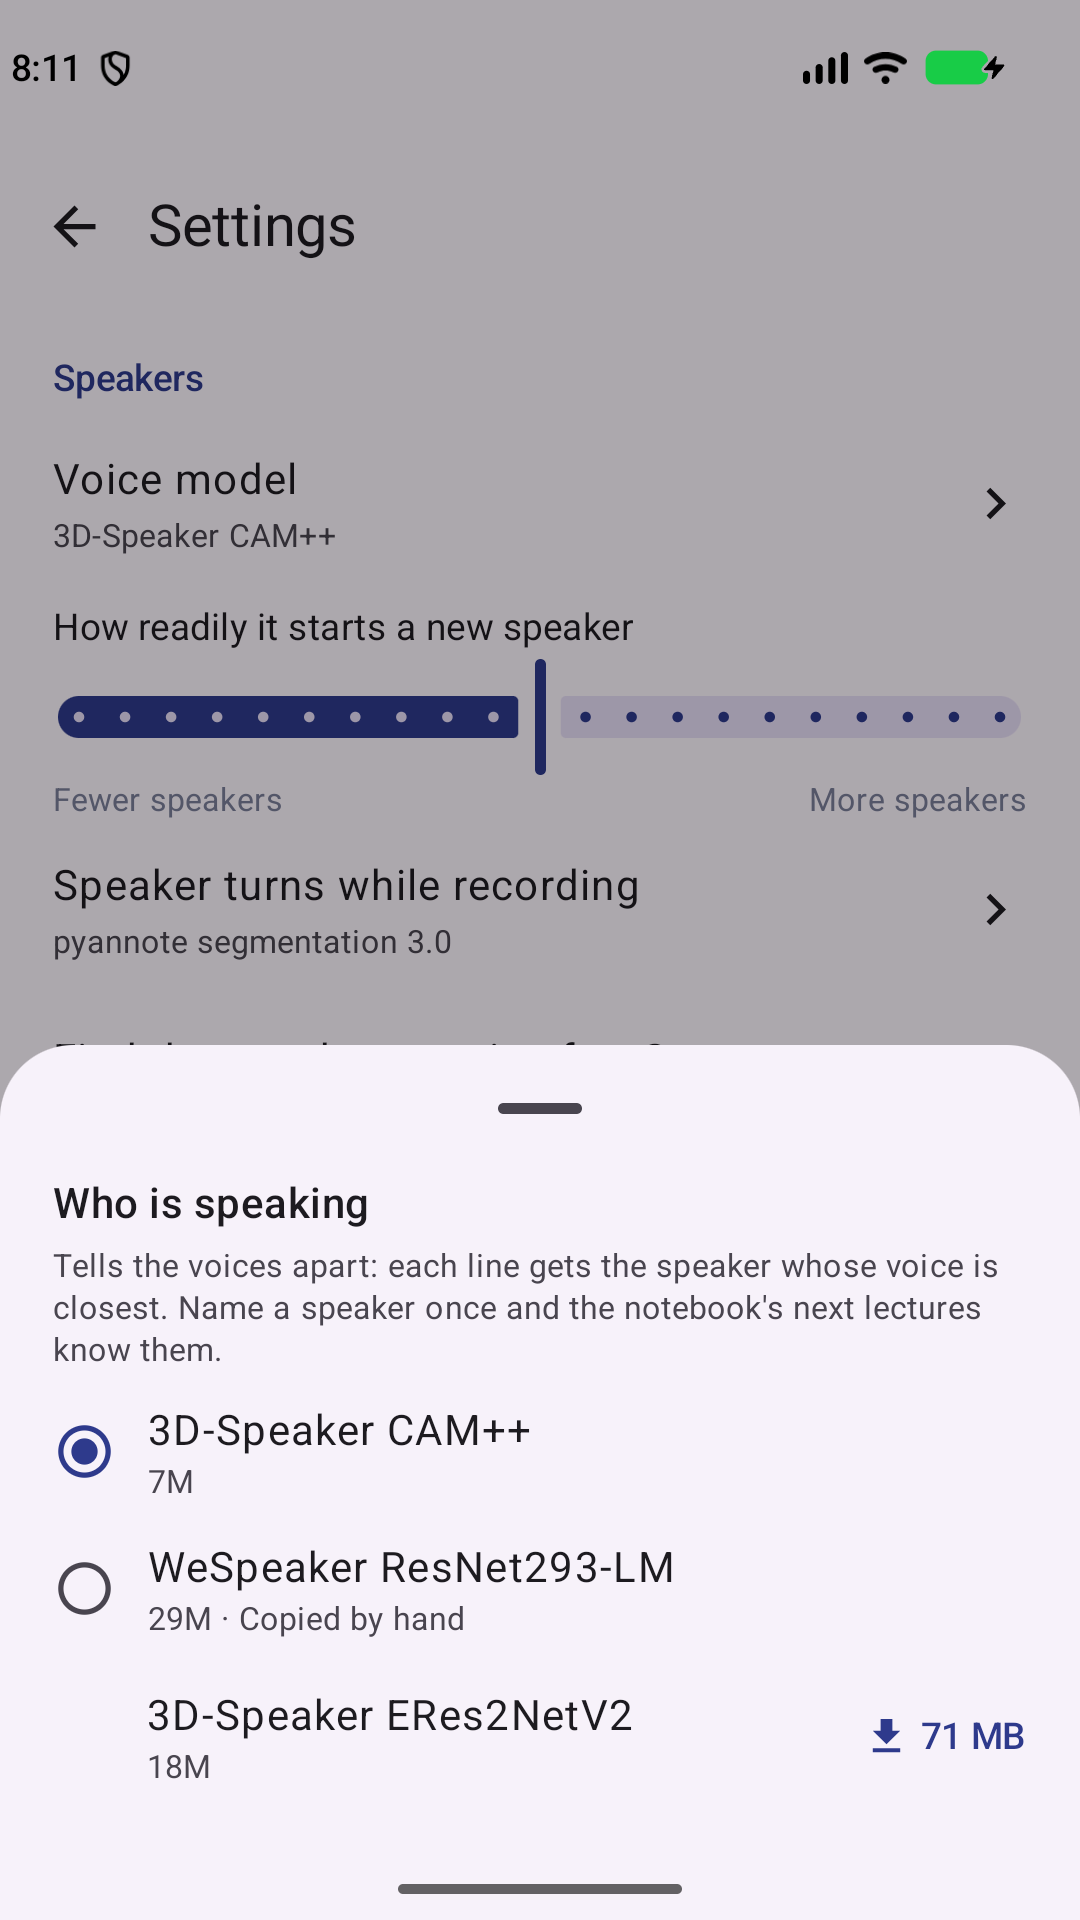
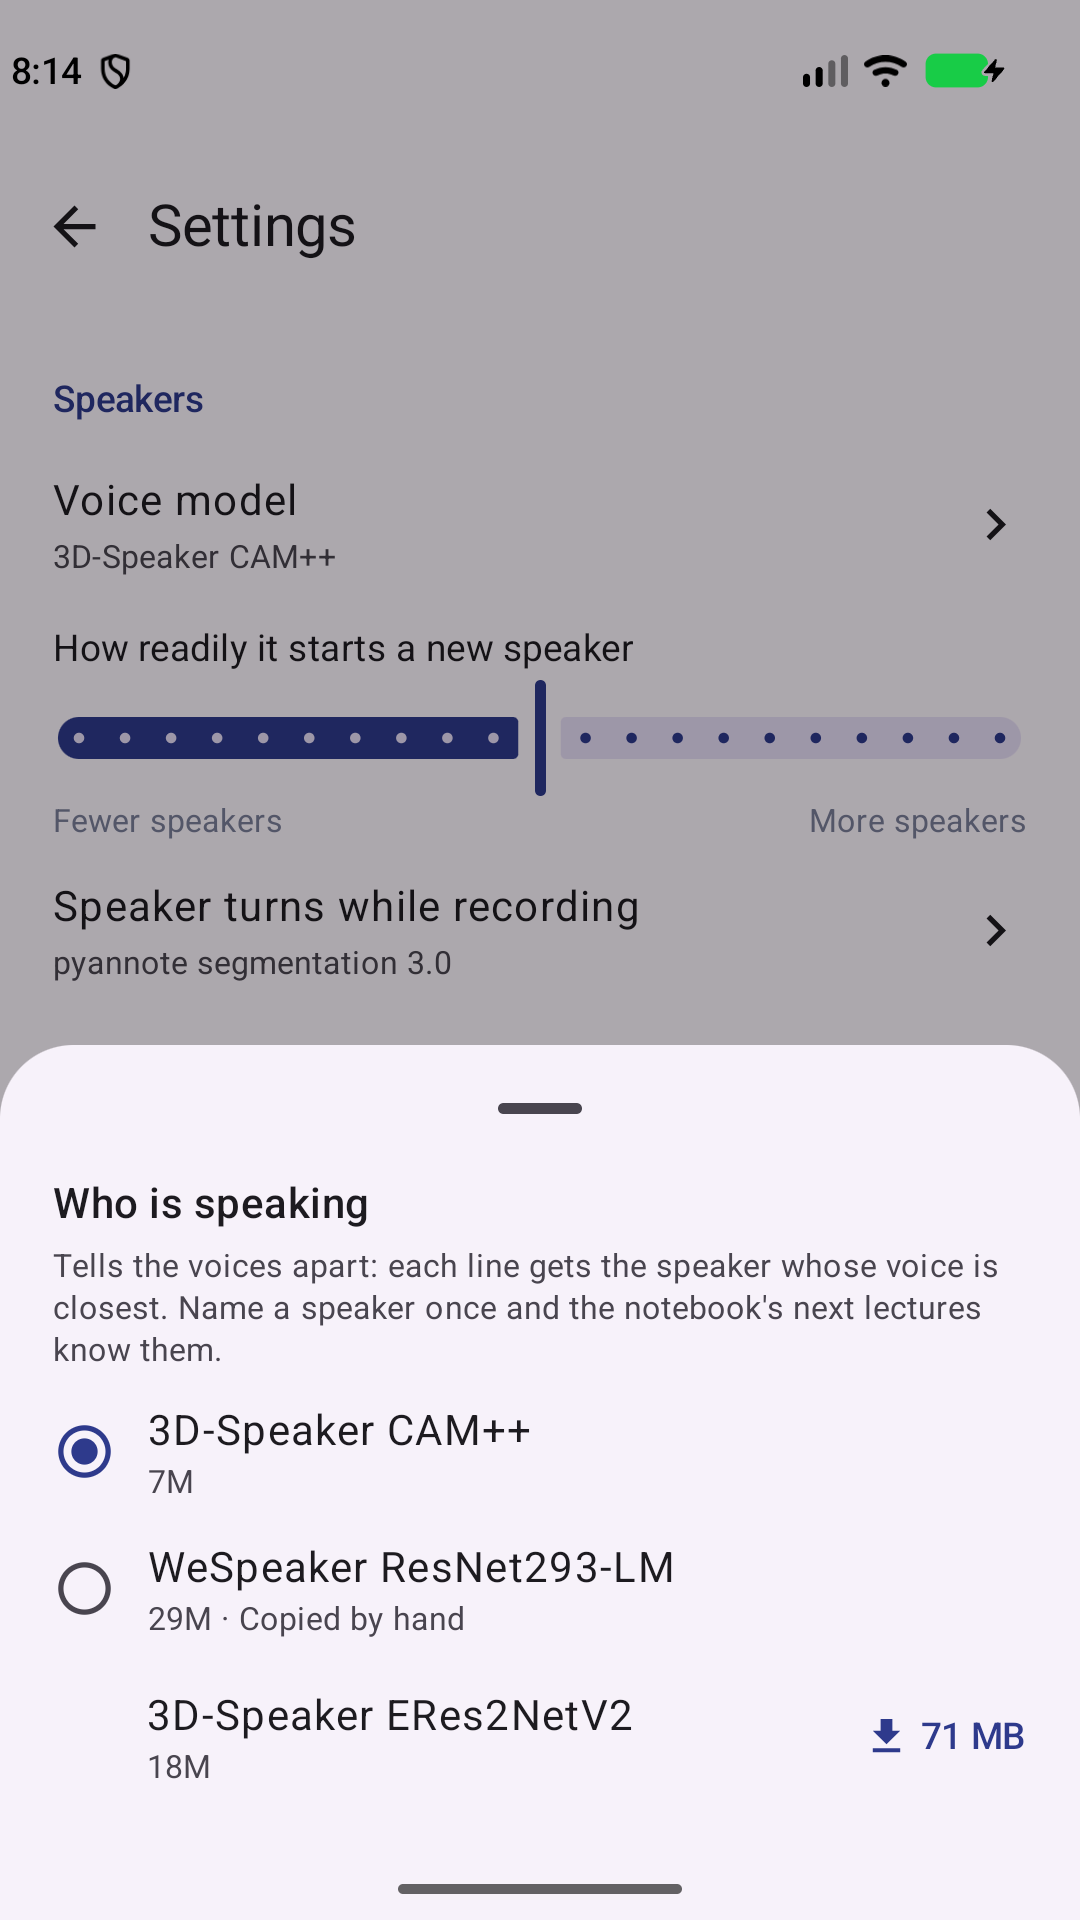
UI lab: models option d2, speaker models on a page of their own with a Hugging Face search; option b's sheet opens full and scrolls
d2: Speaker recognition and Speaker turns each show one row with the chosen model, opening the same page layout
(note, models to pick, Find more on Hugging Face, a faked search). The slider stays on Settings.

Claude-Session: https://claude.ai/code/session_01ErhWDJpSCC6M1cCp9EnAS9

diff --git a/androidApp/src/debug/kotlin/com/chencohensolution/transcriptor/ui/lab/models/d2/ModelsOptionD2.kt b/androidApp/src/debug/kotlin/com/chencohensolution/transcriptor/ui/lab/models/d2/ModelsOptionD2.kt
@@ -1,0 +1,238 @@
+package com.chencohensolution.transcriptor.ui
+
+import androidx.activity.compose.BackHandler
+import androidx.compose.foundation.layout.Column
+import androidx.compose.foundation.layout.Spacer
+import androidx.compose.foundation.layout.fillMaxSize
+import androidx.compose.foundation.layout.height
+import androidx.compose.foundation.layout.padding
+import androidx.compose.foundation.rememberScrollState
+import androidx.compose.foundation.verticalScroll
+import androidx.compose.material.icons.Icons
+import androidx.compose.material.icons.automirrored.filled.ArrowBack
+import androidx.compose.material3.ExperimentalMaterial3Api
+import androidx.compose.material3.HorizontalDivider
+import androidx.compose.material3.Icon
+import androidx.compose.material3.IconButton
+import androidx.compose.material3.Scaffold
+import androidx.compose.material3.Text
+import androidx.compose.material3.TopAppBar
+import androidx.compose.runtime.Composable
+import androidx.compose.runtime.getValue
+import androidx.compose.runtime.mutableStateOf
+import androidx.compose.runtime.saveable.rememberSaveable
+import androidx.compose.runtime.setValue
+import androidx.compose.foundation.layout.Row
+import androidx.compose.foundation.layout.fillMaxWidth
+import androidx.compose.foundation.layout.size
+import androidx.compose.foundation.layout.width
+import androidx.compose.material.icons.filled.Search
+import androidx.compose.material3.LinearProgressIndicator
+import androidx.compose.material3.MaterialTheme
+import androidx.compose.material3.OutlinedTextField
+import androidx.compose.material3.TextButton
+import androidx.compose.runtime.mutableStateListOf
+import androidx.compose.runtime.remember
+import androidx.compose.ui.Alignment
+import androidx.compose.ui.graphics.Color
+import androidx.compose.ui.Modifier
+import androidx.compose.ui.res.stringResource
+import androidx.compose.ui.unit.dp
+import com.chencohensolution.transcriptor.R
+import com.chencohensolution.transcriptor.models.HubSearch
+import com.chencohensolution.transcriptor.models.SpeechModel
+
+/**
+ * Option d2 (the owner's ask: the speaker models on a screen of their own, not a list on Settings): as option d, but
+ * each speaker section has one row with the chosen model (Voice model, Turn model) that opens a page to pick it, like
+ * a language's page. The fewer ↔ more slider stays on Settings, under the Voice model row.
+ */
+@OptIn(ExperimentalMaterial3Api::class)
+@Composable
+fun ModelsScreenD2(state: ModelsState, actions: ModelsActions, @Suppress("UNUSED_PARAMETER") hubSearch: HubSearch) {
+    var language by rememberSaveable { mutableStateOf<String?>(null) }
+    var page by rememberSaveable { mutableStateOf<String?>(null) }
+    var hub by rememberSaveable { mutableStateOf<String?>(null) }
+    val added = remember { mutableStateListOf<D2HubModel>() }
+    if (language != null) {
+        BackHandler { language = null }
+        LabLanguagePage(state, actions, language!!) { language = null }
+        return
+    }
+    val voice = state.labVoiceModel()
+    val turns = state.labTurnModel()
+    if (hub != null) {
+        BackHandler { hub = null }
+        D2HubPage(hub!!, added, onAdd = { added += it }) { hub = null }
+        return
+    }
+    // Speaker recognition and Speaker turns share one page: only their data differs.
+    if (page != null) {
+        BackHandler { page = null }
+        val voices = page == "voices"
+        D2ModelPage(
+            title = stringResource(if (voices) R.string.models_lab_recognition else R.string.models_lab_turns),
+            note = stringResource(if (voices) R.string.models_lab_voices_note else R.string.models_lab_turns_note),
+            state = state, actions = actions,
+            models = if (voices) state.labVoiceModels() else state.labTurnModels(),
+            chosen = if (voices) voice else turns,
+            pick = if (voices) actions.useVoicePrints else actions.useSegmentation,
+            added = added.filter { it.kind == page },
+            onFindMore = { hub = page },
+            onBack = { page = null },
+        )
+        return
+    }
+    Scaffold(
+        topBar = {
+            TopAppBar(
+                navigationIcon = { IconButton(onClick = actions.back) { Icon(Icons.AutoMirrored.Filled.ArrowBack, stringResource(R.string.review_back)) } },
+                title = { Text(stringResource(R.string.notebooks_settings)) },
+            )
+        },
+    ) { padding ->
+        Column(Modifier.fillMaxSize().padding(padding).verticalScroll(rememberScrollState())) {
+            LabLanguages(state, openLanguage = { language = it }, addLanguage = { actions.addLanguage("fr") })
+            HorizontalDivider(Modifier.padding(top = 8.dp))
+            LabSectionTitle(stringResource(R.string.models_lab_recognition))
+            LabPageNote(stringResource(R.string.models_lab_voices_note))
+            LabSummaryRow(stringResource(R.string.models_lab_voice_model), listOf(d2Line(voice, state))) { page = "voices" }
+            if (voice != null) LabSpeakerTuning(state.speakerTuning[voice.id] ?: 0f, Modifier.padding(horizontal = 20.dp)) { actions.setSpeakerTuning(voice, it) }
+            HorizontalDivider(Modifier.padding(top = 8.dp))
+            LabSectionTitle(stringResource(R.string.models_lab_turns))
+            LabPageNote(stringResource(R.string.models_lab_turns_note))
+            LabSummaryRow(stringResource(R.string.models_lab_turn_model), listOf(d2Line(turns, state))) { page = "turns" }
+            HorizontalDivider(Modifier.padding(top = 8.dp))
+            LabSectionTitle(stringResource(R.string.settings_after))
+            LabSwitchRow(stringResource(R.string.models_lab_pass_again), stringResource(R.string.settings_find_speakers_note), state.findSpeakersOnStop, actions.setFindSpeakersOnStop)
+            LabAutoImprove(state, actions)
+            HorizontalDivider(Modifier.padding(top = 8.dp))
+            LabSectionTitle(stringResource(R.string.settings_storage))
+            LabStorage(state, actions, openCatalog = {})
+            Spacer(Modifier.height(16.dp))
+        }
+    }
+}
+
+/** The chosen model's name and facts ("3D-Speaker CAM++ · 7M"), or a red "No model downloaded". */
+@Composable
+private fun d2Line(model: SpeechModel?, state: ModelsState): Pair<String, Boolean> {
+    if (model == null) return stringResource(R.string.models_lab_none) to true
+    val facts = listOfNotNull(
+        isolated(model.name),
+        isolated(model.parameters),
+        stringResource(R.string.models_lab_npu).takeIf { model.id in state.npuVoiceModels },
+        stringResource(R.string.models_by_hand).takeIf { model.manual },
+    )
+    return facts.joinToString(" · ") to false
+}
+
+/**
+ * A speaker job's page (recognition or turns, the same layout): its note, its models to pick (the ready ones with a
+ * radio, the others with their download; picking marks the model and stays here), the repos added from Hugging Face,
+ * then Find more on Hugging Face.
+ */
+@OptIn(ExperimentalMaterial3Api::class)
+@Composable
+private fun D2ModelPage(
+    title: String, note: String, state: ModelsState, actions: ModelsActions, models: List<SpeechModel>, chosen: SpeechModel?,
+    pick: (SpeechModel) -> Unit, added: List<D2HubModel>, onFindMore: () -> Unit, onBack: () -> Unit,
+) {
+    Scaffold(
+        topBar = {
+            TopAppBar(
+                navigationIcon = { IconButton(onClick = onBack) { Icon(Icons.AutoMirrored.Filled.ArrowBack, stringResource(R.string.review_back)) } },
+                title = { Text(title) },
+            )
+        },
+    ) { padding ->
+        Column(Modifier.fillMaxSize().padding(padding).verticalScroll(rememberScrollState())) {
+            LabPageNote(note)
+            LabSpeakerChoices(state, actions, models, chosen, pick)
+            D2Added(added)
+            D2FindMore(onFindMore)
+            Spacer(Modifier.height(16.dp))
+        }
+    }
+}
+
+/** A Hugging Face repo the search page offers (faked: the app's Hub search has no speaker kinds yet). */
+internal data class D2HubModel(val kind: String, val repo: String, val license: String, val size: String) {
+    val nonCommercial get() = "-NC" in license
+}
+
+private val d2HubModels = listOf(
+    D2HubModel("voices", "Wespeaker/wespeaker-voxceleb-resnet34-LM", "CC-BY-4.0", "27 MB"),
+    D2HubModel("voices", "Wespeaker/wespeaker-voxceleb-ECAPA512", "CC-BY-4.0", "25 MB"),
+    D2HubModel("voices", "csukuangfj/speaker-embedding-models", "Apache-2.0", "40 MB"),
+    D2HubModel("voices", "nvidia/speakerverification_en_titanet_large", "CC-BY-4.0", "97 MB"),
+    D2HubModel("turns", "pyannote/segmentation-3.0", "MIT", "6 MB"),
+    D2HubModel("turns", "BUT-FIT/diarizen-wavlm-large-s80-md", "CC-BY-NC-4.0", "1.2 GB"),
+    D2HubModel("turns", "BUT-FIT/diarizen-wavlm-base-s80", "CC-BY-NC-4.0", "380 MB"),
+)
+
+private val D2Green = Color(0xFF188038)
+private val D2Amber = Color(0xFFB26A00)
+
+@Composable
+private fun D2FindMore(onClick: () -> Unit) {
+    TextButton(onClick = onClick, modifier = Modifier.padding(horizontal = 8.dp, vertical = 8.dp)) {
+        Icon(Icons.Filled.Search, null, Modifier.size(18.dp))
+        Spacer(Modifier.width(8.dp))
+        Text(stringResource(R.string.models_lab_find_more))
+    }
+}
+
+/** Repos added from the search page, shown downloading under the page's models. */
+@Composable
+private fun D2Added(models: List<D2HubModel>) {
+    models.forEach { model ->
+        Column(Modifier.fillMaxWidth().padding(start = 56.dp, end = 20.dp, top = 6.dp, bottom = 6.dp)) {
+            Text(isolated(model.repo.substringAfter('/')), style = MaterialTheme.typography.bodyLarge)
+            Text(stringResource(R.string.models_lab_downloading, isolated(model.size)), style = MaterialTheme.typography.bodySmall, color = MaterialTheme.colorScheme.onSurfaceVariant)
+            LinearProgressIndicator(Modifier.fillMaxWidth().padding(top = 4.dp))
+        }
+    }
+}
+
+/** Search Hugging Face for a speaker job's models: the field filters the faked results by its words. */
+@OptIn(ExperimentalMaterial3Api::class)
+@Composable
+private fun D2HubPage(kind: String, added: List<D2HubModel>, onAdd: (D2HubModel) -> Unit, onBack: () -> Unit) {
+    var query by rememberSaveable { mutableStateOf("") }
+    val words = query.lowercase().split(' ').filter { it.isNotBlank() }
+    val results = d2HubModels.filter { it.kind == kind && words.all { w -> w in it.repo.lowercase() } }
+    Scaffold(
+        topBar = {
+            TopAppBar(
+                navigationIcon = { IconButton(onClick = onBack) { Icon(Icons.AutoMirrored.Filled.ArrowBack, stringResource(R.string.review_back)) } },
+                title = { Text(stringResource(R.string.models_from_hub)) },
+            )
+        },
+    ) { padding ->
+        Column(Modifier.fillMaxSize().padding(padding).verticalScroll(rememberScrollState())) {
+            OutlinedTextField(
+                value = query, onValueChange = { query = it }, singleLine = true,
+                leadingIcon = { Icon(Icons.Filled.Search, null) },
+                placeholder = { Text(stringResource(R.string.models_search_hint)) },
+                modifier = Modifier.fillMaxWidth().padding(horizontal = 20.dp, vertical = 8.dp),
+            )
+            LabPageNote(stringResource(if (kind == "voices") R.string.models_lab_recognition else R.string.models_lab_turns))
+            results.forEach { model ->
+                Row(Modifier.fillMaxWidth().padding(start = 20.dp, end = 8.dp, top = 8.dp, bottom = 8.dp), verticalAlignment = Alignment.CenterVertically) {
+                    Column(Modifier.weight(1f)) {
+                        Text(isolated(model.repo), style = MaterialTheme.typography.bodyLarge)
+                        Text(
+                            stringResource(if (model.nonCommercial) R.string.models_license_nc else R.string.models_license_ok, isolated(model.license)),
+                            style = MaterialTheme.typography.bodySmall, color = if (model.nonCommercial) D2Amber else D2Green,
+                        )
+                        Text(isolated(model.size), style = MaterialTheme.typography.bodySmall, color = MaterialTheme.colorScheme.onSurfaceVariant)
+                    }
+                    if (model in added) Text(stringResource(R.string.models_lab_added), style = MaterialTheme.typography.labelLarge, modifier = Modifier.padding(horizontal = 12.dp))
+                    else TextButton(onClick = { onAdd(model) }) { Text(stringResource(R.string.models_lab_add)) }
+                }
+            }
+            Spacer(Modifier.height(16.dp))
+        }
+    }
+}

diff --git a/androidApp/src/debug/kotlin/com/chencohensolution/transcriptor/ui/lab/models/b/ModelsOptionB.kt b/androidApp/src/debug/kotlin/com/chencohensolution/transcriptor/ui/lab/models/b/ModelsOptionB.kt
@@ -18,6 +18,7 @@ import androidx.compose.material3.IconButton
 import androidx.compose.material3.MaterialTheme
 import androidx.compose.material3.ModalBottomSheet
 import androidx.compose.material3.Scaffold
+import androidx.compose.material3.rememberModalBottomSheetState
 import androidx.compose.material3.Text
 import androidx.compose.material3.TopAppBar
 import androidx.compose.runtime.Composable
@@ -91,8 +92,9 @@ private fun bName(model: SpeechModel?, none: Int): Pair<String, Boolean> =
 @OptIn(ExperimentalMaterial3Api::class)
 @Composable
 private fun BSheet(title: String, note: String, onDismiss: () -> Unit, content: @Composable () -> Unit) {
-    ModalBottomSheet(onDismissRequest = onDismiss) {
-        Column(Modifier.navigationBarsPadding().padding(bottom = 16.dp)) {
+    // Full height at once, and the list scrolls: half open, the sheet cut off its last models.
+    ModalBottomSheet(onDismissRequest = onDismiss, sheetState = rememberModalBottomSheetState(skipPartiallyExpanded = true)) {
+        Column(Modifier.verticalScroll(rememberScrollState()).navigationBarsPadding().padding(bottom = 16.dp)) {
             Text(title, style = MaterialTheme.typography.titleMedium, modifier = Modifier.padding(horizontal = 20.dp))
             LabPageNote(note)
             content()

diff --git a/androidApp/src/debug/kotlin/com/chencohensolution/transcriptor/ui/lab/models/d2/ModelsOptionD2Lab.kt b/androidApp/src/debug/kotlin/com/chencohensolution/transcriptor/ui/lab/models/d2/ModelsOptionD2Lab.kt
@@ -1,0 +1,10 @@
+package com.chencohensolution.transcriptor.ui
+
+import com.chencohensolution.transcriptor.speech.SherpaNpuWhisperEngine
+
+// Fakes: as option a (the SM8750, ResNet293 copied by hand, Add a language adds French, Manage models does nothing).
+// Find more on Hugging Face: no network; a fixed list of speaker repos per page (D2HubModel), filtered by the field's
+// words, and Add only lists the repo on its page as downloading (nothing downloads, it isn't pickable).
+internal val modelsOptionD2 = LabOption("d2", "A section per speaker job, picked on its own page", "As d, but each speaker section is one row with the chosen model that opens a page to pick it") {
+    ModelsLab(chip = SherpaNpuWhisperEngine.chip ?: "SM8750") { s, a, h -> ModelsScreenD2(s, a, h) }
+}

diff --git a/androidApp/src/debug/kotlin/com/chencohensolution/transcriptor/ui/LabScreens.kt b/androidApp/src/debug/kotlin/com/chencohensolution/transcriptor/ui/LabScreens.kt
@@ -16,6 +16,7 @@ internal val labScreens: List<LabScreen> = listOf(
         modelsOptionB,
         modelsOptionC,
         modelsOptionD,
+        modelsOptionD2,
     )),
     LabScreen("lecture", "Lecture, while recording", listOf(
         lectureCurrent,
